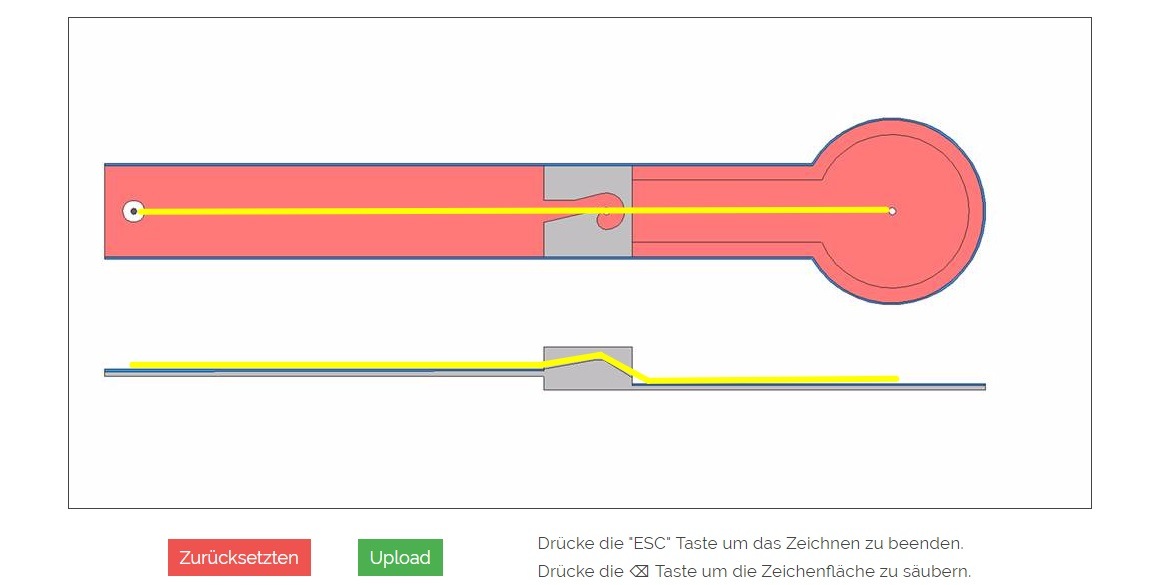
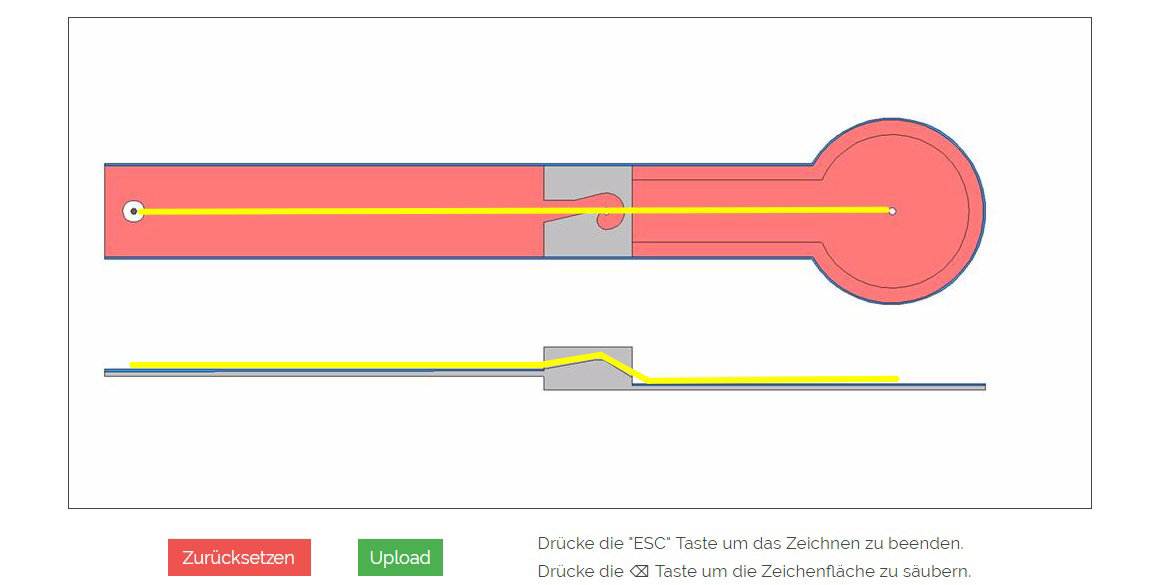
Schreibfehler korrigiert

diff --git a/PHP/Editor.php b/PHP/Editor.php
@@ -49,7 +49,7 @@
                     </canvas>
 
                     <div class="col-lg-2 col-lg-push-1">
-					    <button id="clearCanvas" class="btn btn-default">Zurücksetzten</button>
+					    <button id="clearCanvas" class="btn btn-default">Zurücksetzen</button>
 					</div>
 
 					<div class="col-lg-2 col-lg-push-1">
@@ -84,8 +84,8 @@
                             <p>Über den "Speichern" Button wird die Schlagempfehlung zu unserer Gallerie hinzugefügt.</p>
                         </div>
                         <div class="col-lg-6">
-                            <h3>Zurücksetzten</h3>
-                            <p>Über den "Zurücksetzten" Button kann ihre Zeichnung wieder rückgängig gemacht werden. Drücke die &#9003 Taste um die Zeichenfläche zu säubern.</p>
+                            <h3>Zurücksetzen</h3>
+                            <p>Über den "Zurücksetzen" Button kann ihre Zeichnung wieder rückgängig gemacht werden. Drücke die &#9003 Taste um die Zeichenfläche zu säubern.</p>
                         </div>
                         <div class="col-lg-12">
                             <h4 style="text-align: center">Eine genauere Beschreiben der Funktionen finden Sie auf der <a href=index.php?page=function>Funktionsseite!</a></h4>

diff --git a/PHP/Funktionen.php b/PHP/Funktionen.php
@@ -27,8 +27,8 @@
                             <img id="function-img" src="./images/speichern.jpg" alt="Bild 404 not found">
                         </div>
                         <div class="col-lg-6">
-                            <h3>Zurücksetzten</h3>
-                            <p>Über den "Zurücksetzten" Button kann ihre Zeichnung wieder rückgängig gemacht werden. </p>
+                            <h3>Zurücksetzen</h3>
+                            <p>Über den "Zurücksetzen" Button kann ihre Zeichnung wieder rückgängig gemacht werden. </p>
                        
                             <div id="function-hov">
                             <img id="function-img" src="./images/zurücksetzten1.jpg" alt="Bild 404 not found" style="visibility:hidden;">
